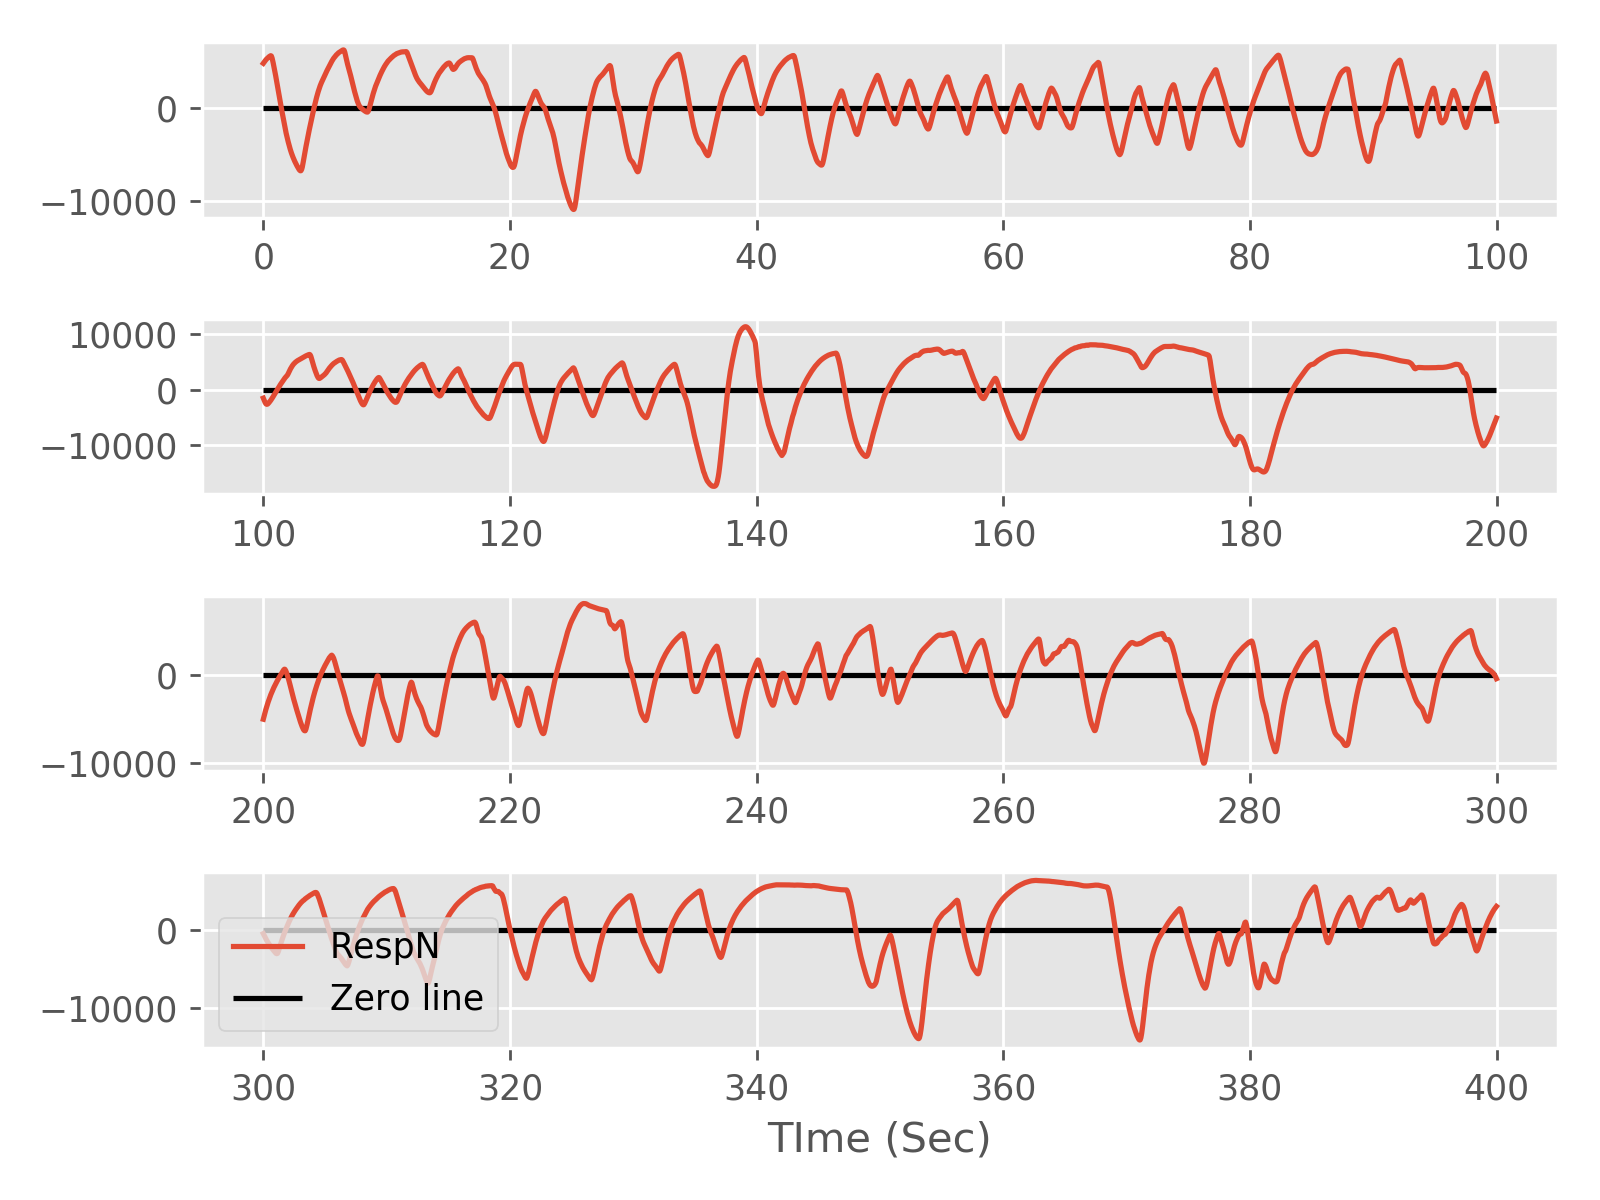
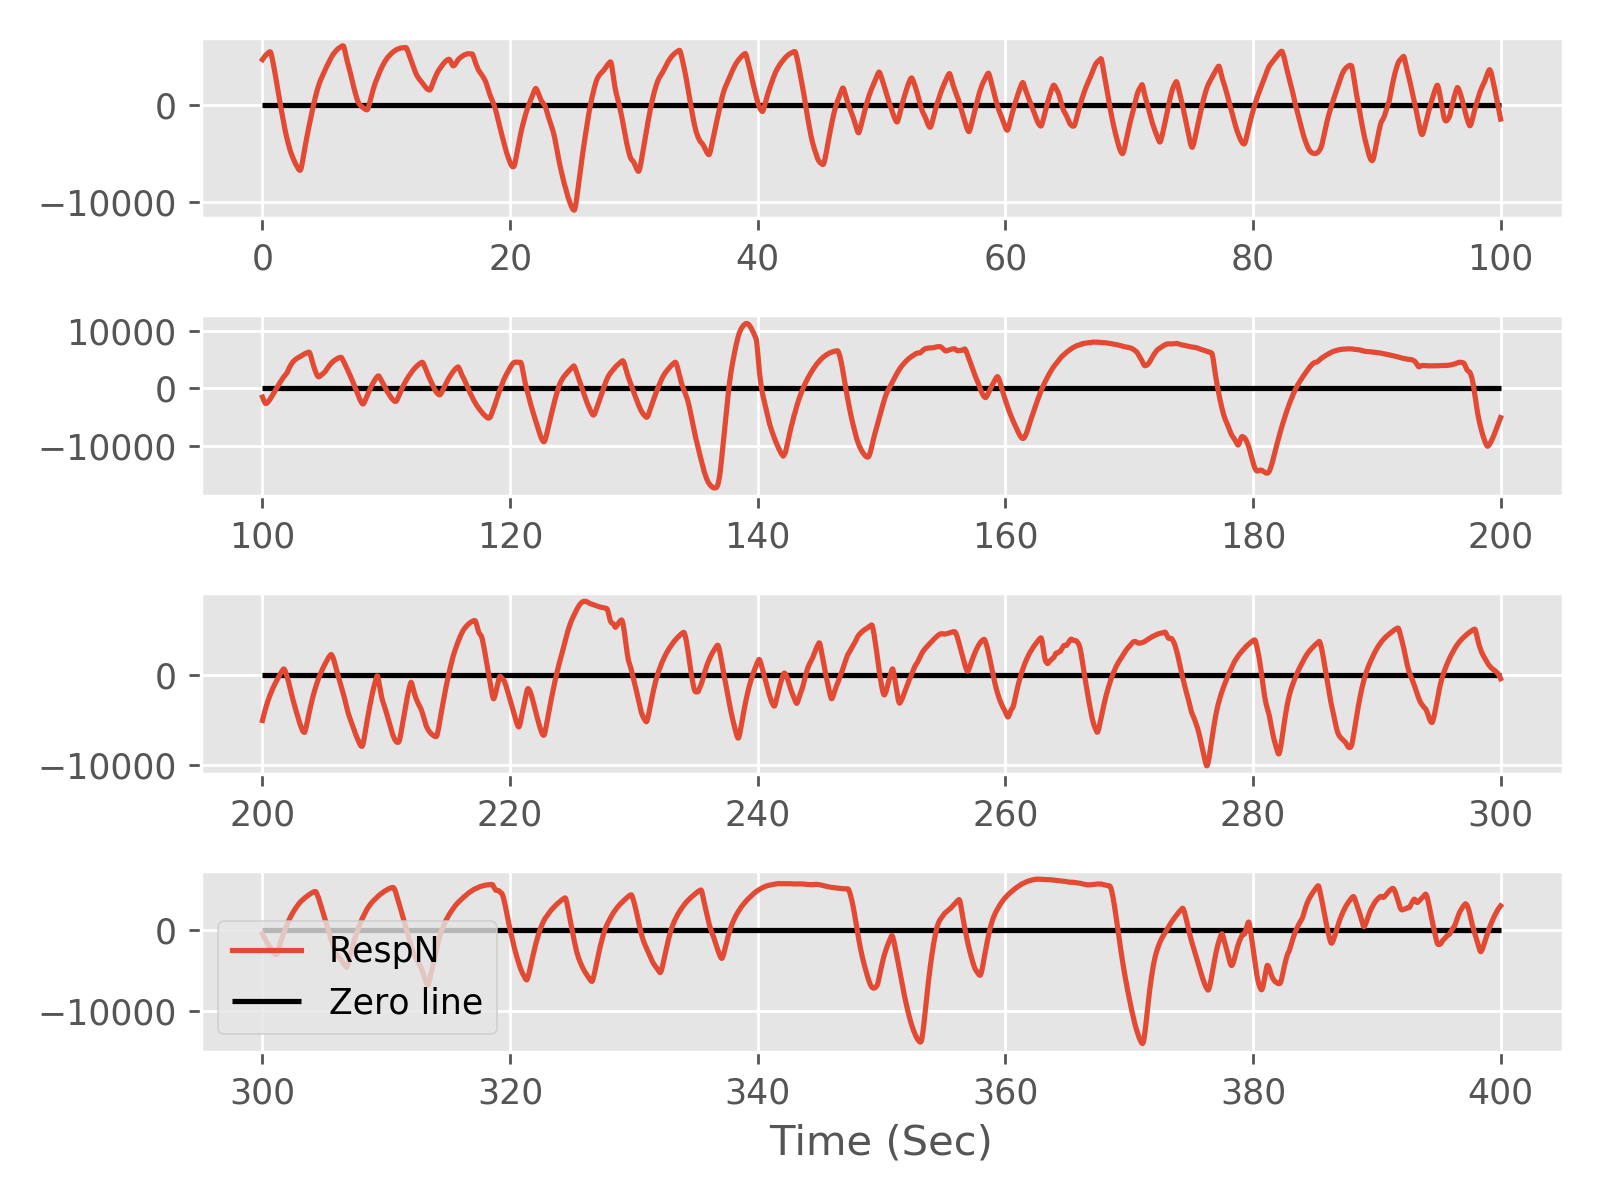
fourier transform

diff --git a/chapter4/fourier.py b/chapter4/fourier.py
@@ -1,0 +1,43 @@
+import os
+from ECG.ecg import read_ecg
+file  =  os.path.join(os.path.dirname(os.path.realpath(__file__)),"a01.dat")
+filer  =  os.path.join(os.path.dirname(os.path.realpath(__file__)),"a01r.dat")
+import matplotlib.pyplot as plt
+plt.style.use('ggplot')
+import numpy as np
+import scipy.fftpack
+from ECG.ecg_sig import band_pass_filter
+
+
+events = 4*10000
+eventsr =4*events
+
+N = events 
+T = 1/100
+
+yr = read_ecg(filer,0,eventsr)
+
+RespN = yr[2::4]
+RespNf = band_pass_filter(RespN)
+x = np.linspace(0.0, N*T, N)
+
+yf = scipy.fftpack.fft(RespN)
+yf_filtered = scipy.fftpack.fft(RespNf)
+xf = np.linspace(0.0, 1.0/(2.0*T), N/2)
+
+fig, ax = plt.subplots(ncols=2)
+plt.subplot(ax[0])
+plt.plot(xf, 2.0/N * np.abs(yf[:N//2]))
+plt.xlim(0,0.8)
+plt.xlabel("frequency (Hz)")
+plt.title("fft of RespN")
+
+plt.subplot(ax[1])
+plt.plot(xf, 2.0/N * np.abs(yf_filtered[:N//2]))
+plt.xlim(0,0.8)
+plt.xlabel("frequency (Hz)")
+plt.title("fft of filtered RespN")
+
+plt.tight_layout()
+plt.savefig('fig/fft',dpi = 250)
+plt.show()

diff --git a/chapter4/res_many_samples.py b/chapter4/res_many_samples.py
@@ -27,7 +27,7 @@ for i in range(4):
     ax[i].hlines(0,min(x[10000*(i):10000*(i+1)]),max(x[10000*(i):10000*(i+1)]),label = "Zero line")
 
 
-plt.xlabel("TIme (Sec)")
+plt.xlabel("Time (Sec)")
 plt.legend(loc="lower left")
 plt.tight_layout()
 path = os.path.dirname(os.path.realpath(__file__))

diff --git a/chapter4/res_many_samples_fil.py b/chapter4/res_many_samples_fil.py
@@ -27,7 +27,7 @@ for i in range(4):
     ax[i].hlines(0,min(x[10000*(i):10000*(i+1)]),max(x[10000*(i):10000*(i+1)]),label = "Zero line")
 
 
-plt.xlabel("TIme (Sec)")
+plt.xlabel("Time (Sec)")
 plt.legend(loc="lower left")
 plt.tight_layout()
 path = os.path.dirname(os.path.realpath(__file__))
